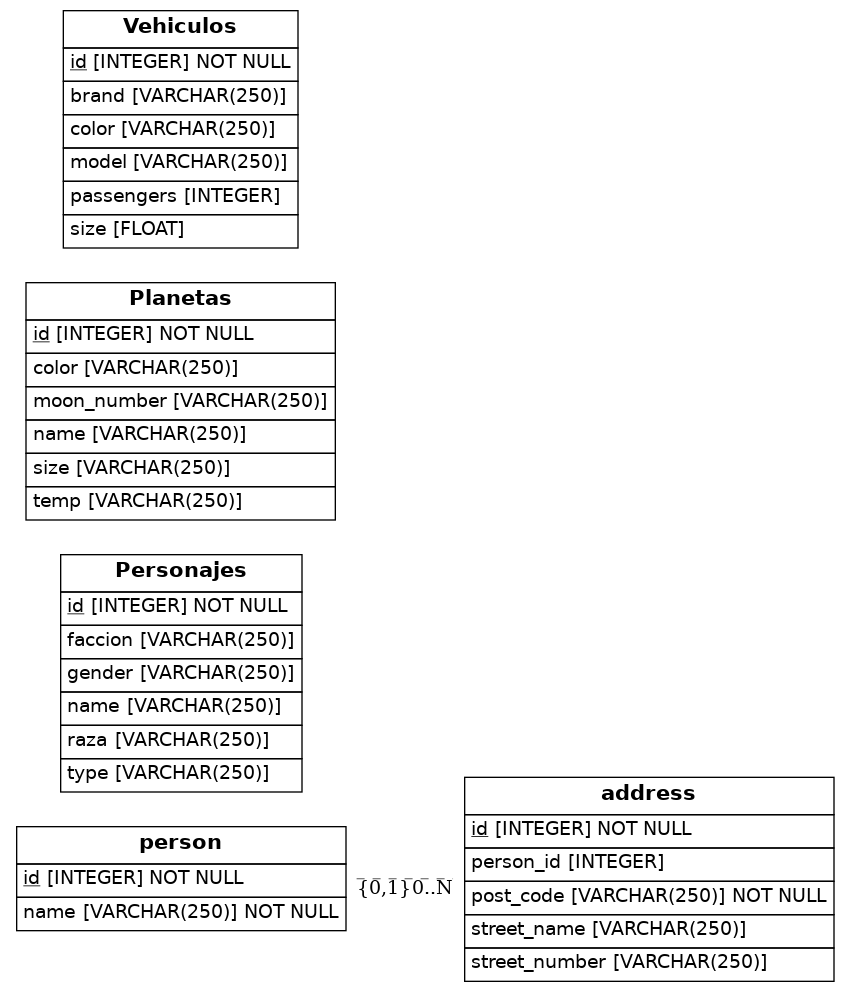
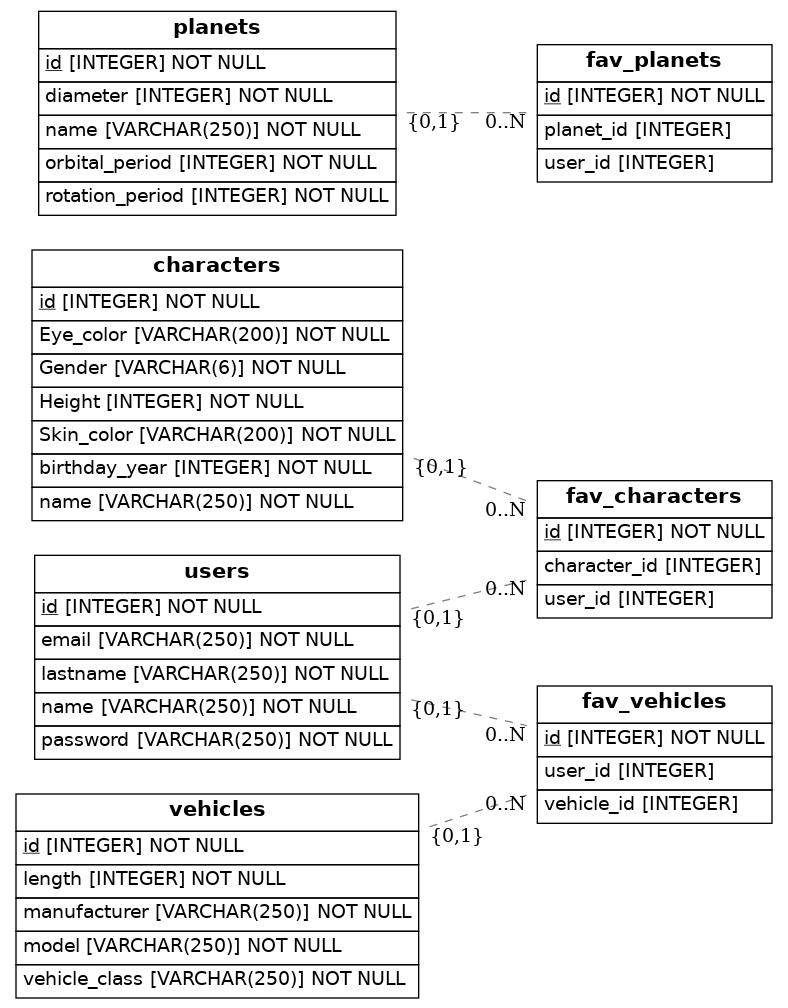
Revisado favoritos

Changed region(s): [[0.0, 0.0, 1.0, 0.999], [0.6396, 0.0303, 1.0, 0.1816], [0.6091, 0.4541, 1.0, 0.6054]]

diff --git a/src/models.py b/src/models.py
@@ -8,43 +8,68 @@ from eralchemy import render_er
 
 Base = declarative_base()
 
-class User(Base):
-    __tablename__ = 'user'
-    # Here we define columns for the table person
-    # Notice that each column is also a normal Python instance attribute.
-    user_id = Column(Integer, primary_key=True)
-    user_name = Column(String(80), unique=True, nullable=False)
-    first_name =Column(String(80), nullable=False)
-    last_name =Column(String(80), nullable=False)
-    created_at =Column(String(80))
-    updated_at =Column(String(80))
-    email =Column(String(80),unique=True, nullable=False) 
+class Users (Base):
+    __tablename__ = "users"
+    id = Column(Integer, primary_key=True)
+    name = Column(String(250), nullable=False)
+    lastname = Column(String(250), nullable=False)
+    email = Column(String(250), nullable=False)
+    password = Column(String(250), nullable=False)
+    # date_subs = Column(DateTime, nullable=False)
 
-class Planet(Base):
-    __tablename__ = 'planet'
-    planet_id = Column(Integer, primary_key=True)
-    name = Column(String(200))
-    climate = Column(String(200))
-    population = Column(Integer)
-    orbital_period = Column(Integer)
-    diameter= Column(Integer)
 
-class Character(Base):
-    __tablename__ = 'character'
-    character_id = Column(Integer, primary_key=True)
-    name =  Column(String(200))
-    birth_year = Column(Integer)
-    gender = Column(String(200))
-    height = Column(Integer)
-    skin_color = Column(String(200))
-    eye_color = Column(String(200))
+class Characters (Base): 
+    __tablename__ = "characters"
+    id = Column(Integer, primary_key=True)
+    name = Column(String(250), nullable=False)
+    birthday_year = Column(Integer, nullable=False)
+    Gender = Column(String(6), nullable=False)
+    Height = Column(Integer, nullable=False)
+    Skin_color = Column(String(200), nullable=False)
+    Eye_color = Column(String(200), nullable=False)
 
-class Favorites(Base): 
-    __tablename__ = 'favorites'
-    like_id = Column(Integer, primary_key=True)
-    user_id = Column(Integer, ForeignKey('user.user_id'))
-    fav_planet_id = Column(Integer, ForeignKey('planet.planet_id'))
-    fav_character_id = Column(Integer, ForeignKey('character.character_id'))
+
+class Planets (Base):
+    __tablename__ = "planets"
+    id = Column(Integer, primary_key=True)
+    name = Column(String(250), nullable=False)
+    diameter = Column(Integer, nullable=False)
+    rotation_period = Column(Integer, nullable=False)
+    orbital_period = Column(Integer, nullable=False)
+
+
+class Vehicles (Base):
+    __tablename__ = "vehicles"
+    id = Column(Integer, primary_key=True)
+    model = Column(String(250), nullable=False)
+    vehicle_class = Column(String(250), nullable=False)
+    manufacturer = Column(String(250), nullable=False)
+    length = Column(Integer, nullable=False)
+
+
+class Fav_Characters (Base):
+    __tablename__ = "fav_characters"
+    id = Column(Integer, primary_key=True)
+    user_id  = Column(Integer, ForeignKey('users.id'))
+    user = relationship(Users)
+    character_id = Column(Integer, ForeignKey('characters.id'))
+    character = relationship(Characters)
+
+class Fav_Planets (Base):
+    __tablename__ = "fav_planets"
+    id = Column(Integer, primary_key=True)
+    user_id  = Column(Integer, ForeignKey('user.id'))
+    user = relationship(Users)
+    planet_id = Column(Integer, ForeignKey('planets.id'))
+    planet = relationship(Planets)
+
+class Fav_Vehicles (Base):
+    __tablename__ = "fav_vehicles"
+    id = Column(Integer, primary_key=True)
+    user_id  = Column(Integer, ForeignKey('users.id'))
+    user = relationship(Users)
+    vehicle_id = Column(Integer, ForeignKey('vehicles.id'))
+    vehicle = relationship(Vehicles)
 
     def to_dict(self):
         return {}
